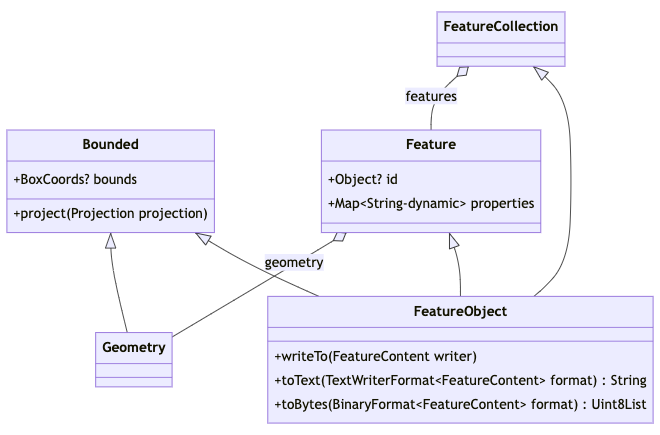
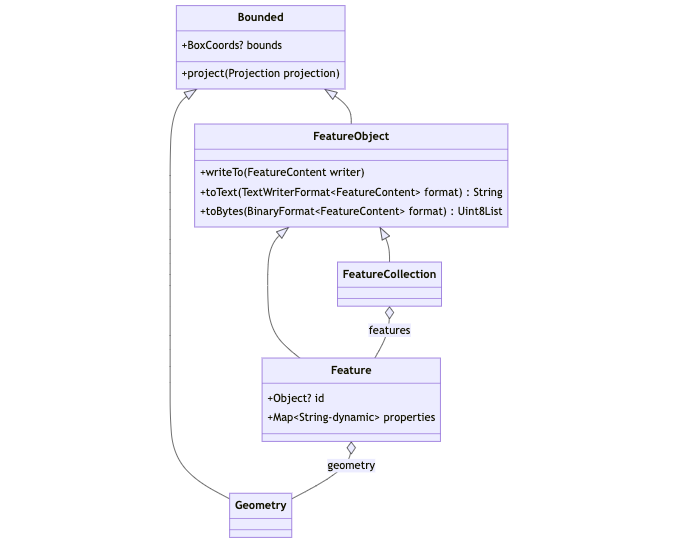
fix(geobase): fix inheritance in feature class diagram

diff --git a/dart/geobase/README.md b/dart/geobase/README.md
@@ -509,7 +509,7 @@ property values or geometry objects, but not specified by the GeoJSON model
 This package models features and feature collections according to these
 definitions:
 
-<img src="https://raw.githubusercontent.com/navibyte/geospatial/main/dart/geobase/assets/diagrams/feature_objects.svg" style="max-width:600px;width:100%" align="center" title="Feature object classes" />
+<img src="https://raw.githubusercontent.com/navibyte/geospatial/main/dart/geobase/assets/diagrams/feature_objects.svg" width="100%" title="Feature object classes" />
 
 ### Feature
 
